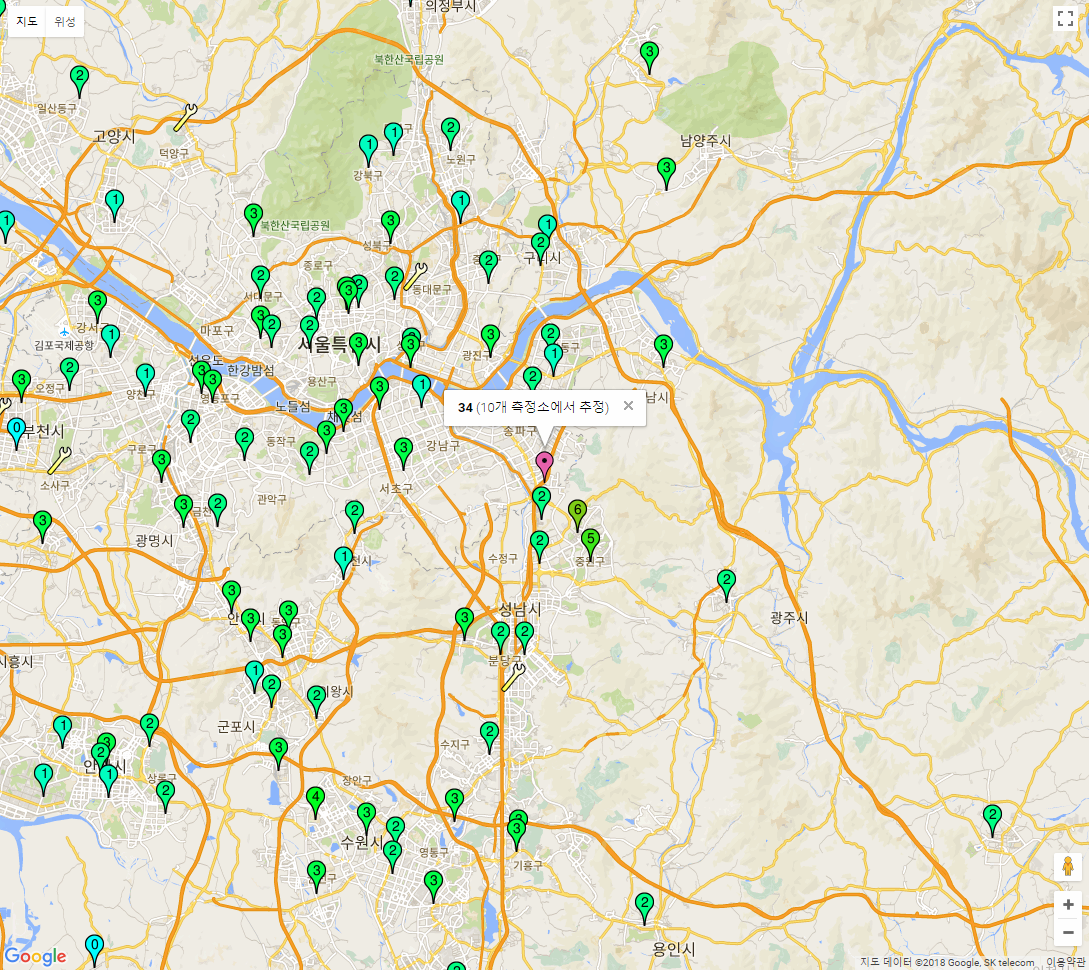
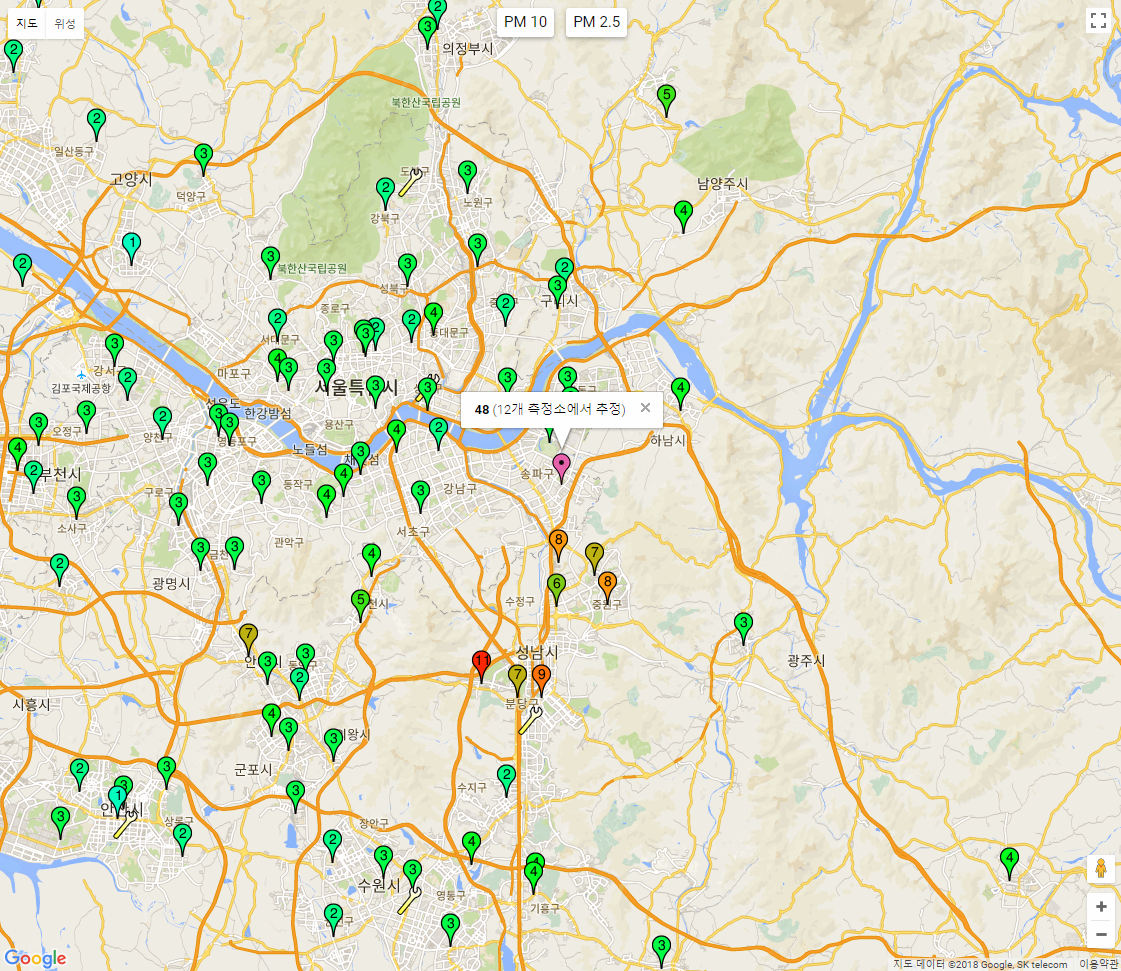
add: PM2.5 display(PM10/PM25 toggle button added)

diff --git a/index.html b/index.html
@@ -16,34 +16,51 @@
         margin: 0;
         padding: 0;
       }
+      #pm10UI, #pm25UI {
+        background-color: #fff;
+        border: 2px solid #fff;
+        border-radius: 3px;
+        box-shadow: 0 2px 6px rgba(0,0,0,.3);
+        cursor: pointer;
+        float: left;
+        margin-bottom: 22px;
+        text-align: center;
+      }
+      #pm10Text, #pm25Text {
+        color: rgb(25,25,25);
+        font-family: Roboto,Arial,sans-serif;
+        font-size: 15px;
+        line-height: 25px;
+        padding-left: 5px;
+        padding-right: 5px;
+      }
+      #pm25UI {
+        margin-left: 12px;
+      }
     </style>
   </head>
   <body>
     <div id="map"></div>
     <script src="/script/marker_url_generator.js"></script>
+    <script src="/script/makeToggleButton.js"></script>
     <script>
-      var map, infoWindow, myloc;
+      var map, infoWindow, myloc, pm;
       function initMap() {
         // map정의
         var pos = {lat: 36, lng: 128};
+        pm = "pm10";
         map = new google.maps.Map(document.getElementById('map'), {
           zoom: 7,
           center: pos
         });
+
+
         // infoWindow정의
         infoWindow = new google.maps.InfoWindow;
 
         // Load GeoJSON.
         map.data.loadGeoJson('/api/loc'); // 측정소 정보 GeoJson 로드
-        map.data.setStyle(function(feature) {
-  		  return {
-  		    //icon: gradeToMarker(feature.getProperty('pm10grade')), // pm10단계값에 따라 마커 색상 결정
-          icon: marker_link(feature.getProperty('pm10value')),   // pm10 값에 따라 마커 색상 조절
-          visible: true,
-  		    clickable: true,
-          title: feature.getProperty('stationName') + ": " + feature.getProperty('pm10value')// 롤오버 텍스트
-  		    };
-  		  });
+        map.data.setStyle(pmMakrkerSetStyle);
 
        // Geolocation
        if (navigator.geolocation) {
@@ -61,7 +78,8 @@
               req_idw(pos, get_idw);
             });
             google.maps.event.addListener(myloc, 'click', function() { // 마커 클릭시 infoWindow 다시 열림
-              infoWindow.open(map, myloc);
+              //infoWindow.open(map, myloc);
+              togglePm("pm25");
             });
             map.panTo(pos);
             map.setZoom(11);
@@ -73,7 +91,40 @@
           // Browser doesn't support Geolocation
           handleLocationError(false, infoWindow, map.getCenter());
         }
+
+        // Create the DIV to hold the control and call the CenterControl()
+        // constructor
+        // passing in this DIV.
+        var toggleButtonDiv = document.createElement('div');
+        var toggleButton = new ToggleButton(toggleButtonDiv, map, togglePm);
+
+        toggleButtonDiv.index = 1;
+        toggleButtonDiv.style['padding-top'] = '10px';
+        map.controls[google.maps.ControlPosition.TOP_CENTER].push(toggleButtonDiv);
       }// initMap
+
+
+
+      function togglePm(toggleTo) {
+        if (pm === toggleTo) {
+          return;
+        } else {
+          pm = toggleTo;
+          map.data.revertStyle();
+          map.data.setStyle(pmMakrkerSetStyle)
+        }
+        req_idw(myloc.getPosition(), get_idw);
+      }
+
+      function pmMakrkerSetStyle (feature) {
+        return {
+            //icon: gradeToMarker(feature.getProperty('pm10grade')), // pm10단계값에 따라 마커 색상 결정
+            icon: marker_link(feature.getProperty(pm + 'value'), pm),   // pm10 값에 따라 마커 색상 조절
+            visible: true,
+            clickable: true,
+            title: feature.getProperty('stationName') + ": " + feature.getProperty(pm + 'value')// 롤오버 텍스트
+          };
+      }
 
       // Geolocation Error
       function handleLocationError(browserHasGeolocation, infoWindow, pos) {
@@ -90,13 +141,13 @@
         $.getJSON('/api/mise/latlng/'+ position.lat() + "/" + position.lng(), callback)
       }
 
-      // req_idw 콜백
+      // req_idw 콜백(infoWindow 표출)
       function get_idw(result) {
         if (result.result.pm10.result) {
-          infoWindow.setContent("<strong>" + result.result.pm10.result.toFixed(0) + "</strong>" + " (" + result.result.pm10.stations.length + "개 측정소에서 추정)");
+          infoWindow.setContent("<strong>" + result.result[pm].result.toFixed(0) + "</strong>" + " (" + result.result[pm].stations.length + "개 측정소에서 추정)");
         }
         else {
-          infoWindow.setContent(result.result.pm10.message);
+          infoWindow.setContent(result.result[pm].message);
         }
         infoWindow.open(map, myloc);
       }

diff --git a/script/marker_url_generator.js b/script/marker_url_generator.js
@@ -1,4 +1,5 @@
-function marker_link(pm10value) {
+// pm값에 따라 마커 아이콘으로 사용할 링크를 반환해주는 모듈
+function marker_link(pmValue, pm) { // @param pm : "pm10" 또는 "pm25"
   var marker_color_per10 = [
     "00FFFF", // 0
     "00FFBF", // 10
@@ -19,9 +20,14 @@ function marker_link(pm10value) {
     "660000", // 160+, very bad
   ];
 
-  var pm10level = parseInt(pm10value / 10);
-  if (pm10level > 16) { pm10level = 16; }
+  var pmLevel;
+  if (pm === "pm25") {
+    pmLevel = parseInt(pmValue / 5)
+  } else {
+    pmLevel = parseInt(pmValue / 10)
+  }
 
-  if (!pm10level && pm10level != 0) { return "https://maps.gstatic.com/mapfiles/ms2/micons/mechanic.png" } // 정비소 마커
-  else { return "https://chart.googleapis.com/chart?chst=d_map_pin_letter&chld=" + parseInt(pm10value / 10) + "|" + marker_color_per10[pm10level] + "|000000" }
+  if (pmLevel > 16) { pmLevel = 16; }
+  if (!pmLevel && pmLevel != 0) { return "https://maps.gstatic.com/mapfiles/ms2/micons/mechanic.png" } // 정비소 마커
+  else { return "https://chart.googleapis.com/chart?chst=d_map_pin_letter&chld=" + parseInt(pmValue / 10) + "|" + marker_color_per10[pmLevel] + "|000000" }
 }

diff --git a/script/makeToggleButton.js b/script/makeToggleButton.js
@@ -1,0 +1,41 @@
+// 토글 버튼 만들어주는 모듈
+// 참조: https://developers.google.com/maps/documentation/javascript/examples/control-custom-state
+function ToggleButton(toggleDiv, map, toggleFunc) {
+  var toggle = this;
+
+  toggleDiv.style.clear = 'both';
+
+  // PM10 UI
+  var pm10UI = document.createElement('div');
+  pm10UI.id = 'pm10UI';
+  pm10UI.title = 'Click to View PM 10';
+  toggleDiv.appendChild(pm10UI);
+
+  // PM10 TEXT
+  var pm10Text = document.createElement('div');
+  pm10Text.id = 'pm10Text';
+  pm10Text.innerHTML = 'PM 10';
+  pm10UI.appendChild(pm10Text);
+
+  // PM25 UI
+  var pm25UI = document.createElement('div');
+  pm25UI.id = 'pm25UI';
+  pm25UI.title = 'Click to View PM 2.5';
+  toggleDiv.appendChild(pm25UI);
+
+  // PM25 TEXT
+  var pm25Text = document.createElement('div');
+  pm25Text.id = 'pm25Text';
+  pm25Text.innerHTML = 'PM 2.5';
+  pm25UI.appendChild(pm25Text);
+
+  // PM10 클릭 동작
+  pm10UI.addEventListener('click', function() {
+    toggleFunc("pm10");
+  });
+
+  // PM25 클릭 동작
+  pm25UI.addEventListener('click', function() {
+    toggleFunc("pm25");
+  });
+}

diff --git a/modules/req_mise.js b/modules/req_mise.js
@@ -14,6 +14,7 @@ module.exports = function(_mise_geojson, _key){
     xhr.send();
     xhr.onreadystatechange = function() {
     	if (xhr.readyState == 4 && xhr.status == 200) {
+        console.log(sido + " 200 OK");
         var temp = JSON.parse(xhr.responseText);
         temp.list.map((obj) => {
           // 이름 같은 인덱스 찾아서 geojson의 속성에 pm25, pm10값 삽입
@@ -24,8 +25,8 @@ module.exports = function(_mise_geojson, _key){
           _mise_geojson.features[i].properties.pm10grade = obj.pm10Grade;
         })
       }
-      else {
-        console.log(xhr.status + ": req failed" + sido)
+      else if (xhr.readyState == 4) {
+        console.log(sido + " req failed... status : "+ xhr.status)
       }
     }
   });

diff --git a/README.MD b/README.MD
@@ -1,6 +1,6 @@
 # **misemise**
 ![alt text](/docs/sample.png)
-(2018. 8. 8 update)
+(2018. 8. 9 update)
 
 ## Project Main Goal
 * 미세먼지 정보(PM10, PM2.5)를 실시간으로 받아 Google Map에 시각화  
@@ -9,7 +9,7 @@
 ## Requirement & Dependancy
 * AppKey: [한국환경공단 대기오염정보 조회 서비스](https://www.data.go.kr/dataset/15000581/openapi.do), [한국환경공단 측정소정보 조회 서비스](https://www.data.go.kr/dataset/15000660/openapi.do), [Google Maps Javascript API](https://developers.google.com/maps/documentation/javascript/tutorial)  
 * Server: `Node.js`  
-* npm : `Express`(라우팅) `xmlhttprequest`(먼지값 API) `node-schedule`(스케쥴러)  
+* npm : `express`(라우팅) `xmlhttprequest`(먼지값 API 요청) `node-schedule`(스케쥴러)  
 
 ## Tech
 * `Node.js`
@@ -21,4 +21,5 @@
 * 20180806 미세먼지 값을 10으로 나눈 수를 마커 라벨로 나타냄, 그 수에 따라 마커 색상(17단계) 정하도록 변경  
 * 20180808 임의 위치 PM10값 추정(IDW) API 완성(`/api/mise/loc/:lat/:lng`), 마커의 위치 변경시 추정값 보여줌
 * 20180808 1시간마다 PM값 자동업데이트, 사소한 편의사항들, 리펙토링 조금 (측정값 조회부분 모듈화 등)
-* 20180809 IDW에서 PM25값 함께 연산해서 응답(표출X), 사소한 버그 수정
+* 20180809 IDW에서 PM2.5값 함께 연산해서 응답(표출X), 사소한 버그 수정
+* 20180809 PM10, PM2.5값 모두 표출 가능하도록 버튼 추가 및 이에 따른 API, 모듈 일부 수정
